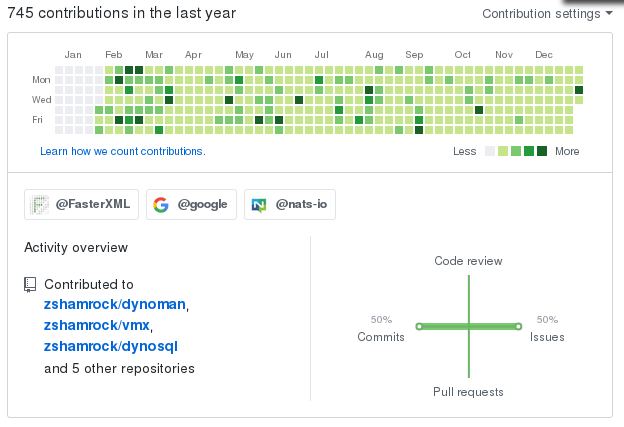
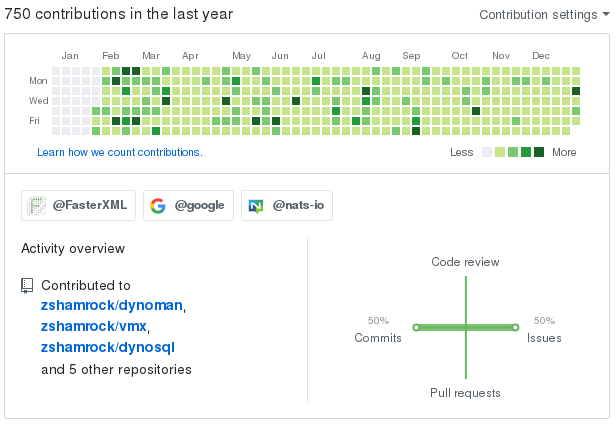
Publishe new post

diff --git a/resources/templates/md/posts/2019-01-05-summary-2018.md b/resources/templates/md/posts/2019-01-05-summary-2018.md
@@ -1,4 +1,4 @@
-{:title "2018 technical summary"
+{:title "2018 Technical Summary"
 :layout :post
 :tags ["practice"]
 }
@@ -9,102 +9,116 @@ Here is the summary of the 2018 year from the technical perspective.
 - [Enlightenment](https://www.enlightenment.org/) window manager
 - [f.lux](https://justgetflux.com/)
 
-_Initially Enlightenment was the only one candidate, but in the end of the year I have discovered f.lux, and it immediately has been promoted into the "Tools of the year"_.
+Initially Enlightenment was the only one candidate, but in the end of the year I have discovered f.lux, and it immediately has been promoted into the "Tools of the year".
 
 ### Language of the year
 - [Kotlin](https://kotlinlang.org/)
 
+I was skeptical about the language in the beginning, but after working with it more, and getting some practical experience changed my mind, and indeed was the pleasant discovery of the year. 
+
 ### Conference of the year
 - [HighLoad++](http://www.highload.ru/moscow/2018/) in Moscow
 
-_Although being honest I have attended only 2: [Joker](https://jokerconf.com/) in Saint Petersburg and [HighLoad++](http://www.highload.ru/moscow/2018/) in Moscow/Skolkovo_.
+Although being honest I have attended only 2: [Joker](https://jokerconf.com/) in Saint Petersburg and [HighLoad++](http://www.highload.ru/moscow/2018/) in Moscow/Skolkovo, but the later triggered more discoveries and thoughts.
 
 ### Library of the year
 - [Testcontainers](https://www.testcontainers.org/)
 
+Very nice library. We have been using [Spotify Docker client](https://github.com/spotify/docker-client) for a while, but migrated to the Testcontainers.
+
 ### Commitment of the year
 
-Since February, 1st I have set the commitment to start working on my open source projects (either active or in the idea phase only) every day. So there should be the commit/activity every single day in the GitHub contributions track:
+Since February, 1st I have set the commitment to start working on my open source projects every day. Even 5-10 minutes, but everyday. So there should be the commit/activity every single day in the GitHub contributions track:
 
 <img src="/img/2018-contributions-overview.png" alt="2018 Contributions Overview" class="img-thumbnail">
 
+There are equal number of commits and issues, as new ideas and features are coming at the speed of the actual implementation, and I use the GitHub Issues as the tasks tracker for the projects.
+
 There are 4 main projects I have been working through the past year:
-- vmx
-- uuidfmt
-- dynosql
-- dynoman
+- [vmx](https://github.com/zshamrock/vmx)
+- [uuidfmt](https://github.com/zshamrock/uuidfmt)
+- [dynosql](https://github.com/zshamrock/dynosql)
+- [dynoman](https://github.com/zshamrock/dynoman)
 
-All of them came out of the necessity, i.e. they were built to help me (and the team) to work on my day to day development activities on the main project.
+All of them came out of the necessity, i.e. they were built to help me (and the team) to work on the day to day development activities on the main project.
 
-## vmx
+#### vmx
 
-Description: Remote instances management tool over SSH written in Go
-Lang: Go
-Status: Ready to use
+- Description: Remote instances management tool over SSH written in Go
+- Lang: Go
+- Status: Ready to use
+
+<img src="/img/2018-summary-vmx.png" alt="vmx activities summary" class="img-thumbnail">
 
 This tool is used in the project to do dev and prod deployments, plus various handy commands to run against specific set of servers.
 
 Likely, I think, there could be other tools available for doing similar tasks. And even all our infrastructure is automated using Ansible, there is still a place for the vmx tool. At least currently we are running 3 dev EC2 instances, and about 21 prod EC2 instances, and vmx does the job well, and I am not looking for other tools.
 
-Ultimate next step would be to introduce Kubernetes to project, as we run all the services as the Docker containers, but in the current stage Kubernetes would not bring any technical or business value to the project.
+Ultimate next step would be to introduce Kubernetes to project, considering we are running all the services as the Docker containers since the very beginning, but in the current stage Kubernetes would not bring any technical or business values to the project.
 
-## uuidfmt
+#### uuidfmt
 
-Description:
-Lang: Go
-Status: Ready to use
+- Description:
+- Lang: Go
+- Status: Ready to use
 
-[![Get it from the Snap Store](https://snapcraft.io/static/images/badges/en/snap-store-black.svg)](https://snapcraft.io/uuidfmt)
+<img src="/img/2018-summary-uuidfmt.png" alt="uuidfmt activities summary" class="img-thumbnail">
 
 This tool was written to mainly convert between 2 different formats of UUID-s. One format is used in the MySQL, and another format is used in the DynamoDB (and these are the primary keys in the tables), so it was cumbersome to do the conversion manually. And the tool was born.
 
-<video controls width="320" height="240">
-  <source src="/img/uuidfmt-2018-summary.mpg" type="video/mpeg">
-Sorry, your browser doesn't support embedded videos.
-</video>
+Also built the [Snap](https://snapcraft.io/) of the tool, and released into the store: 
 
-viz and snap
+[![Get it from the Snap Store](https://snapcraft.io/static/images/badges/en/snap-store-black.svg)](https://snapcraft.io/uuidfmt)
+
+And some metrics of the Snap image usages and territories: 
+
+<img src="/img/uuidfmt-snap-usages.png" alt="uuidfmt snap usages" class="img-thumbnail">
+
+<img src="/img/uuidfmt-snap-territories.png" alt="uuidfmt snap territories" class="img-thumbnail">
 
 I am glad that other people also found the tool useful, not many, but still.
 
+#### dynosql
 
-## dynosql
-Description:
-Lang: Java
-Status: In development
+- Description:
+- Lang: Java
+- Status: In development
 
-The idea was to implement SQL parser and to transform from SQL to the corresponding DynamoDB query/scan. There are no really good libraries for this in the Java ecosystem available. There is similar library in Python with its own defined like SQL language. And also RazorSQL provides support for running SQL queries against DynamoDB. (provide both links to the pages)
+<img src="/img/2018-summary-dynosql.png" alt="dynosql activities summary" class="img-thumbnail">
 
-I have run multiple stages in the implementation, from trying to build the parser using ANTLR and the available ANTLR grammar. It did not work well.
-Was trying to use any of the available libraries for parsing SQL query. Also none of them really fit my need. So finally, as in the first stage the support is only limited to the SELECT statements, and they will be extended by the syntax similar to the DQL, I do parsing of the query myself.
+The idea was to implement the SQL parser and to transform from SQL to the corresponding DynamoDB query/scan. There are no really good libraries for this in the Java ecosystem available. There is similar library in Python with its own defined like SQL language - [DQL](https://dql.readthedocs.io/en/latest/topics/queries/select.html). And also [RazorSQL](https://razorsql.com/docs/dynamodb_sql_support.html) provides support for running SQL queries against DynamoDB.
 
-The goal is to use this library as the dependency for the *dynoman*, but also could be used standalone, so this is why was extracted into the separate project.
+I have run multiple stages in the implementation, from trying to build the parser using [ANTLR](https://www.antlr.org/) and the available [ANTLR SQLite grammar](https://github.com/antlr/grammars-v4/blob/master/sqlite/SQLite.g4). It did not work well.
+Was trying to use some of the available libraries for parsing SQL query. Also none of them really fit my need. So finally, as in the first stage the support is only limited to the SELECT statements, and they will be extended by the syntax similar to the DQL, I do parsing of the query myself.
 
-ppm
+The goal is to use this library as the dependency for the dynoman, but also could be used standalone, so this is why it was extracted into the separate project.
 
-## dynoman
+#### dynoman
 
-Description:
-Lang: Kotlin
-Status: Ready to use
+- Description:
+- Lang: Kotlin
+- Status: Ready to use
+
+<img src="/img/2018-summary-dynoman.png" alt="dynoman activities summary" class="img-thumbnail">
 
 Actually this project was the main focus of the year, and the time I spent mostly on.
 
-Again was built for the necessity to use more convenient and feature rich tool to work with DynamoDB rather than official web UI/console. Actually the UI is modelled after the web UI, but with some extended features I was missing.
+Again was built for the necessity to use more convenient and features rich tool to work with DynamoDB rather than official web UI/console. Actually the UI is modelled after the web UI, but with some extended features I was missing.
 
 Proved to work fine, as in 80% of the cases (the more I progress, the more cases it covers) I use this tool instead of the web UI.
 
 Also it was the nice opportunity to practice Kotlin, and look into the modern Java desktop development (I had good experience in the past working with Swing in my student years). And really enjoy building desktop apps.
-ppm
 
 ### Plans for 2019
 
-What I am sure I will continue doing is to work on my open source projects:
+What I am sure I will continue to do is to work on my open source projects:
 - provide good solid documentation for the vmx
 - complete dynosql to be able parse DQL and produce the corresponding DynamoDB query
 - deliver the dynoman to the stage with the core features I am aiming for
 - provide the various distribution formats for the dynoman to be installed on Mac, Linux and Windows
 
-Also will explore Kotlin more.
+From the learning new things perspective:
+- will continue to explore Kotlin more
+- get some good introduction to the Machine Learning, not necessary to become the expert, but getting good understanding of the tools and concepts, and getting some practical experience
 
-Other things are more nice to do, like exploring Clickhous and Tarantool (again from the perspective to use them in the project), but the above is already a lot, considering I do them in my free time, and have the full time job with lots of challenges.
+Other things are more nice to do, like to explore [Clickhouse](https://clickhouse.yandex/) and [Tarantool](https://tarantool.io/en/) (again from the perspective to use them in the project), but the above is already a lot, considering I do them in my free time, and have the full time job with lots of challenges.
